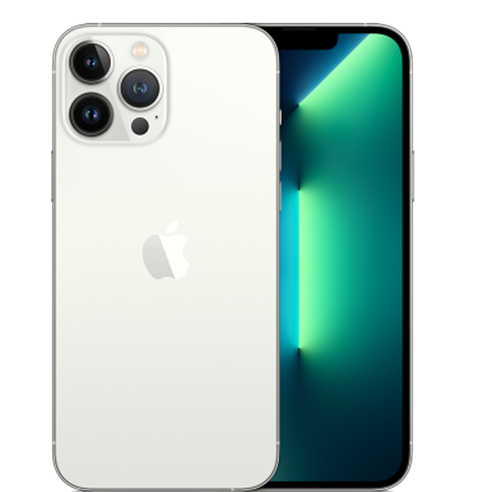
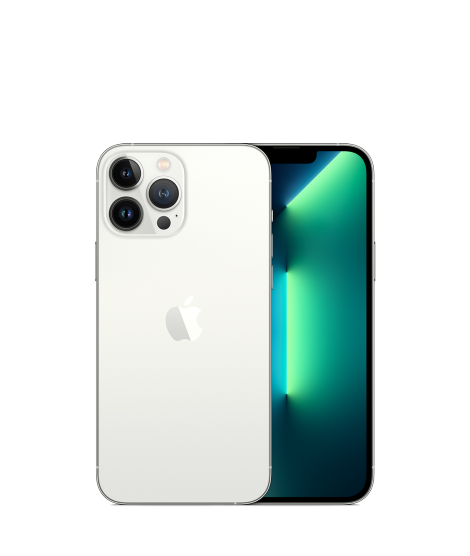
update_v.1.0.6

diff --git a/index.html b/index.html
@@ -5,8 +5,9 @@
     <meta charset="UTF-8">
     <meta http-equiv="X-UA-Compatible" content="IE=edge">
     <meta name="viewport" content="width=device-width, initial-scale=1.0">
-    <link rel="stylesheet" href="style.css">
-    <link rel="stylesheet" href="fonts/font_apple.css">
+    <link rel="stylesheet" href="style/header.css">
+    <link rel="stylesheet" href="style/Iphone_13top_1.css">
+    <!-- <link rel="stylesheet" href="fonts/font_apple.css"> -->
     <link rel="stylesheet" href="fonts/SF_Pro_Display_fonts.css">
     <title>apple_pro_full</title>
 </head>
@@ -70,35 +71,44 @@
                 </div>
             </div>
         </div>
-        <div class="blc_m">
-            <div class="viewport-wrapper">:before</div>
-            <div class="blc_11">
-                <center>
-                    <img id="disp" style="height:492px" src="img/00.jpg">
-                </center>
-            </div>
 
-            <div class="blc_001">
-                <div class="blc_r_00">
-                    <button class="st st_0"><b>Iphone 13 Pro</b></button>
-                    <button class="st st_01" style="border:3px solid #0071E3;"><b>Iphone 13 Pro Max</b></button>
+        <div class="m_body">
+            <div class="blc_m">
+                <div class="viewport-wrapper">
+                    <div class="blc_11">
+                        <center>
+                            <img id="disp" style="height:492px" src="img/00000.jpg">
+                        </center>
+                    </div>
                 </div>
-                <div class="blc_r_01">
-                    <button class="st_1" data-info="img/01.png"> <img class="img_st" src="img/0_1.jpg"><b>Alpine
-                            Green</b></button>
-                    <button class="st_1" data-info="img/02.png"> <img class="img_st"
-                            src="img/0_2.jpg"><b>Silver</b></button>
-                    <button class="st_1" data-info="img/03.png"><img class="img_st"
-                            src="img/0_3.jpg"><b>Gold</b></button>
-                    <button class="st_1" data-info="img/04.png"><img class="img_st"
-                            src="img/0_4.jpg"><b>Graphite</b></button>
-                    <button class="st_1" data-info="img/05.png"><img class="img_st" src="img/0_5.jpg"><b>Sierra
-                            Blue</b></button>
+
+                <div class="blc_001">
+                    <div class="blc_right_text">
+                        <p>New</p>
+                        <h1>Buy iPhone 13 Pro</h1>
+                        <p>Get $100–$650 off when you trade in an iPhone 8 or newer◊◊</p>
+                        <a href="">See how trade-in works</a>
+                    </div>
+                    <div class="blc_r_00">
+                        <button class="st st_0"><b>Iphone 13 Pro</b></button>
+                        <button class="st st_01" style="border:3px solid #0071E3;"><b>Iphone 13 Pro Max</b></button>
+                    </div>
+                    <div class="blc_r_01">
+                        <button class="st_1" data-info="img/01.png"> <img class="img_st" src="img/0_1.jpg"><b>Alpine
+                                Green</b></button>
+                        <button class="st_1" data-info="img/02.png"> <img class="img_st"
+                                src="img/0_2.jpg"><b>Silver</b></button>
+                        <button class="st_1" data-info="img/03.png"><img class="img_st"
+                                src="img/0_3.jpg"><b>Gold</b></button>
+                        <button class="st_1" data-info="img/04.png"><img class="img_st"
+                                src="img/0_4.jpg"><b>Graphite</b></button>
+                        <button class="st_1" data-info="img/05.png"><img class="img_st" src="img/0_5.jpg"><b>Sierra
+                                Blue</b></button>
+                    </div>
+                    <button class="st st_2" style="margin-left: -25px; margin-top: 10px;"><b>Корзина</b></button>
                 </div>
-                <button class="st st_2" style="margin-left: -25px; margin-top: 10px;"><b>Корзина</b></button>
             </div>
         </div>
-
     </main>
     <script src="app.js"></script>
 </body>

diff --git a/style/header.css b/style/header.css
@@ -18,18 +18,6 @@ a {
     color: #000;
 }
 
-/* //viewport */
-.viewport-wrapper {
-    display: block;
-    width: 0px;
-
-    position: absolute;
-    top: 0;
-    overflow: hidden;
-    visibility: hidden;
-}
-
-
 header {
     height: 44px;
     background-color: #333333;
@@ -193,104 +181,4 @@ main {
 
     background: transparent;
     border: 0;
-}
-
-/* img iphone style */
-
-
-.blc_m {
-    margin-left: auto;
-    margin-right: auto;
-    width: 980px;
-
-    display: flex;
-    justify-content: center;
-    justify-content: space-between;
-
-}
-
-#disp {
-    display: flex;
-    justify-content: center;
-}
-
-.blc_m button {
-    background-color: transparent;
-    border-radius: 10px;
-    border-style: solid;
-    border-width: 1px;
-}
-
-.st {
-    width: 408px;
-    height: 83px;
-
-}
-
-.st:hover {
-    border-color: black;
-    color: #ADCCE9;
-}
-
-.img_st {
-    width: 32px;
-
-
-}
-
-.blc_r_00 {
-    width: 440px;
-    height: 200px;
-
-    margin-top: 20px;
-
-    display: flex;
-    flex-wrap: wrap;
-}
-
-.blc_001 {
-    width: 490px;
-    display: flex;
-    flex-direction: column;
-    align-items: center;
-}
-
-.blc_r_01 {
-    width: 445px;
-    display: flex;
-    flex-wrap: wrap;
-}
-
-.st_1 {
-    width: 197px;
-    height: 103px;
-    margin: 5px;
-    padding: 15px;
-
-    display: flex;
-    flex-direction: column;
-    align-items: center;
-    justify-content: center;
-
-}
-
-.st_1:hover {
-    color: #ADCCE9;
-}
-
-
-.blc_11 {
-    width: 490px;
-
-    display: flex;
-    flex-direction: column;
-    align-items: center;
-    justify-content: center;
-
-    position: sticky;
-    top: 0px;
-}
-
-.act {
-    border: 3px solid #0071E3 !important;
 }

diff --git a/style/Iphone_13top_1.css b/style/Iphone_13top_1.css
@@ -1,0 +1,103 @@
+/* //viewport */
+.viewport-wrapper {
+    display: block;
+    width: 0px;
+}
+
+/* img iphone style */
+.blc_m {
+    margin-left: auto;
+    margin-right: auto;
+    width: 980px;
+
+    display: flex;
+    justify-content: center;
+    justify-content: space-between;
+
+}
+
+#disp {
+    display: flex;
+    justify-content: center;
+}
+
+.blc_m button {
+    background-color: transparent;
+    border-radius: 10px;
+    border-style: solid;
+    border-width: 1px;
+}
+
+.st {
+    width: 408px;
+    height: 83px;
+
+}
+
+.st:hover {
+    border-color: black;
+    color: #ADCCE9;
+}
+
+.img_st {
+    width: 32px;
+
+
+}
+
+.blc_r_00 {
+    width: 440px;
+    height: 200px;
+
+    margin-top: 20px;
+
+    display: flex;
+    flex-wrap: wrap;
+}
+
+.blc_001 {
+    width: 490px;
+    display: flex;
+    flex-direction: column;
+    align-items: center;
+}
+
+.blc_r_01 {
+    width: 445px;
+    display: flex;
+    flex-wrap: wrap;
+}
+
+.st_1 {
+    width: 197px;
+    height: 103px;
+    margin: 5px;
+    padding: 15px;
+
+    display: flex;
+    flex-direction: column;
+    align-items: center;
+    justify-content: center;
+
+}
+
+.st_1:hover {
+    color: #ADCCE9;
+}
+
+
+.blc_11 {
+    width: 490px;
+
+    display: flex;
+    flex-direction: column;
+    align-items: center;
+    justify-content: center;
+
+    position: sticky;
+    top: 0px;
+}
+
+.act {
+    border: 3px solid #0071E3 !important;
+}
